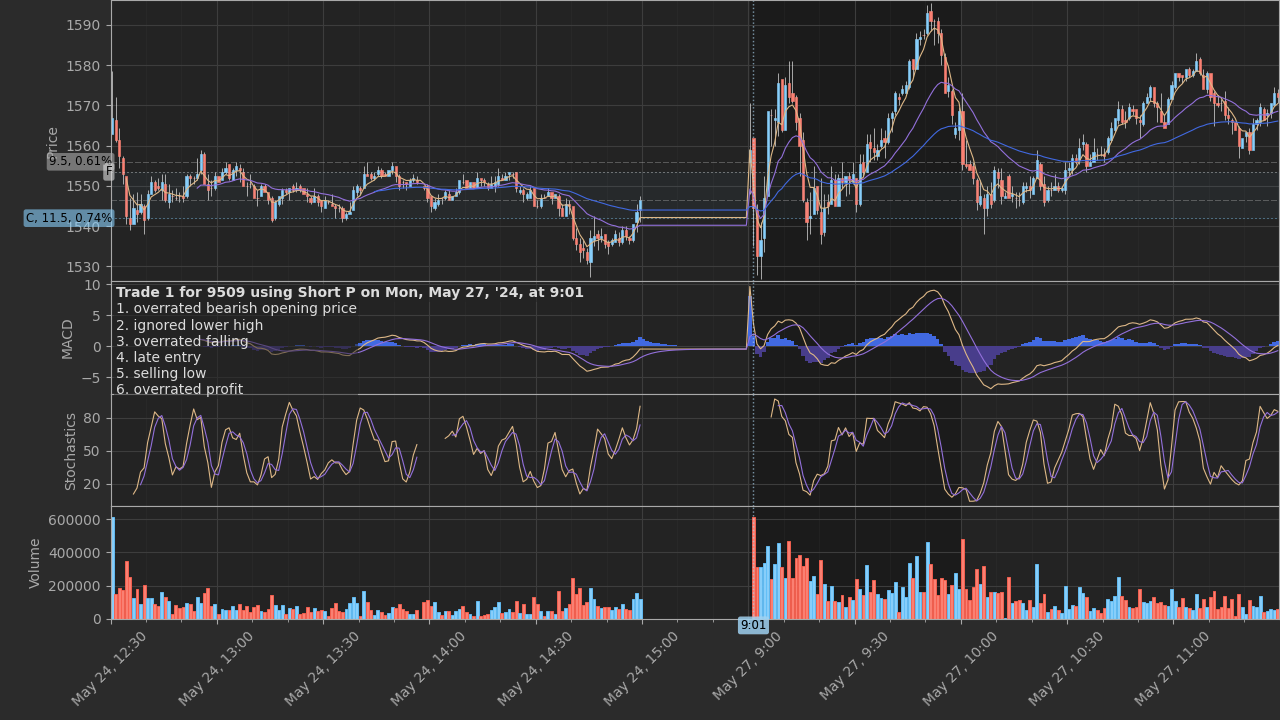
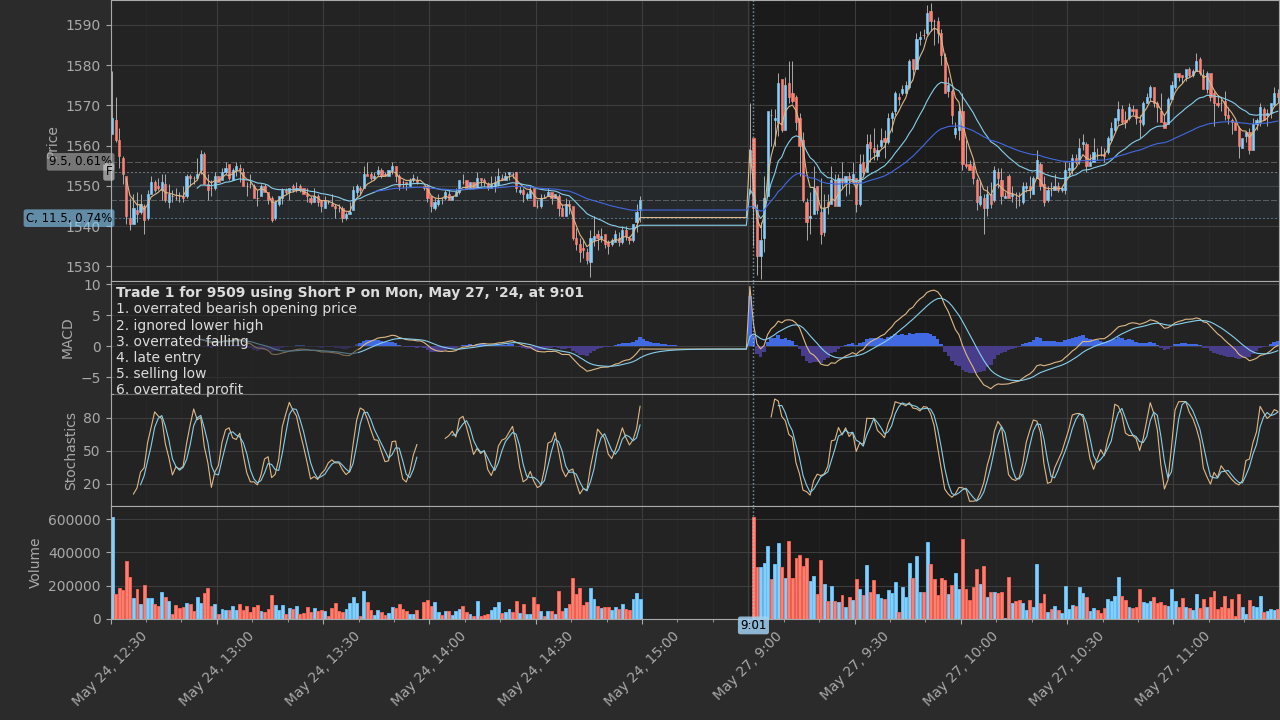
Modify opal

Changed region(s): [[0.875, 0.5806, 0.9062, 0.6111], [0.5625, 0.4583, 0.5938, 0.4889], [0.1875, 0.6417, 0.2188, 0.6722]]

diff --git a/styles/opal.py b/styles/opal.py
@@ -17,7 +17,7 @@ style = {'style_name': 'opal',
                           'vcdopcod': False,
                           'alpha': 1.0},
          'mavcolors': ['burlywood',
-                       'mediumpurple',
+                       'skyblue',
                        'royalblue',
                        'darkslateblue'],
          'y_on_right': False,
